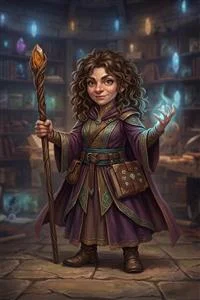
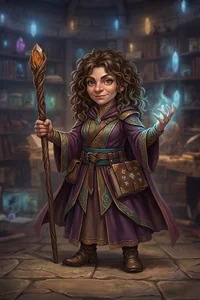
Nexus page: lore-accurate story, no hero count, new portrait row
- Drop 'painted', the ninety heroes and the class list everywhere (page, features, captions, press kit).
- The lieutenants are the lich's; the lieutenant caption names the Hollow Queen.
- Thandrys in the opening paragraph and the press description; 'the dragon that guards it' in the win caption and press text.
- Heroes: 'Dozens of heroes, each with a story', Seraphine's line in the lede.
- Story section follows the approved story: Vael Morrath, the flares, the ritual.
- Twelve new portraits, none of them shown in the screenshots.

Claude-Session: https://claude.ai/code/session_01TryM3vMNWA3NdZEFbYWbvc

diff --git a/games/nexus-of-dragons/index.html b/games/nexus-of-dragons/index.html
@@ -49,14 +49,14 @@
       <p class="eyebrow">The game</p>
       <h2>A board game you can lose yourself in</h2>
       <hr class="rule">
-      <p>Nexus of Dragons is played on a painted board of three rings. Each turn you roll, choose your road and face
-      what you find there: a monster to fight, a stranger with an offer, a town to rest in, a gate that will only open
-      for the strong.</p>
+      <p>Nexus of Dragons is played on a board of three rings, across the land of Thandrys. Each turn you roll, choose
+      your road and face what you find there: a monster to fight, a stranger with an offer, a town to rest in, a gate
+      that will only open for the strong.</p>
       <p>Your hero grows with every step – levels, spells, gear, a horse, a few loyal companions. The other heroes on the
       board are racing you to the same prize. Only one of you will take mastery of the Nexus Crystal.</p>
     </div>
     <div class="card"><img src="../../assets/img/nexus/shots/table-800.webp" alt="The board of Nexus of Dragons on the table, seen from above" width="800" height="450" loading="lazy">
-      <div class="body"><p class="mt0 muted" style="margin:0">To win, reach the Nexus Temple, defeat the Shadow Dragon and take mastery of the Crystal.</p></div></div>
+      <div class="body"><p class="mt0 muted" style="margin:0">To win, reach the Nexus Temple, defeat the dragon that guards it and take mastery of the Crystal.</p></div></div>
   </div>
 </section>
 <section class="band">
@@ -64,10 +64,10 @@
     <p class="eyebrow">Features</p>
     <h2>What waits on the road</h2>
     <ul class="features"><li><h3>Journey to the heart</h3><p>Three rings of land – the Outer, the Middle and the Inner – each harder than the last. Find the crossings, earn your way inward and reach the Nexus Temple.</p></li>
-<li><h3>Ninety heroes</h3><p>Nine peoples and five callings: warriors, mages, clerics, rogues and rangers, each hero with a story and a personal quest of their own. Or make your own hero.</p></li>
+<li><h3>Heroes to choose from</h3><p>Dozens of ready-made heroes from many races and callings, each with a story and a personal quest of their own. Or make your own hero.</p></li>
 <li><h3>Dice on the table</h3><p>Every blow, spell and saving throw is rolled out in front of you, from the d4 to the d20. Classic tabletop rules decide every fight.</p></li>
 <li><h3>Towns and the road</h3><p>Rest at inns, trade in markets, buy a mount at the stables, hire companions in taverns, take guild contracts – and perhaps raise a dragon of your own.</p></li>
-<li><h3>The Shadow Dragon's lieutenants</h3><p>Four of the dragon&#x27;s servants walk the land. Beat them for their treasures – or run when you must.</p></li>
+<li><h3>The lich's lieutenants</h3><p>As the heroes grow stronger, four of the lich&#x27;s servants rise and walk the land. Beat them for their treasures – or run when you must.</p></li>
 <li><h3>Your table, your length</h3><p>Up to six players in any mix of friends at one screen and computer heroes. Play a Classic match for the long road or a Quick one for an evening.</p></li></ul>
   </div>
 </section>
@@ -75,11 +75,11 @@
   <div class="wrap">
     <p class="eyebrow">Screenshots</p>
     <h2>From the table</h2>
-    <div class="gallery"><button type="button" data-full="../../assets/img/nexus/shots/table-1400.webp" data-caption="The table: a painted board of three rings, with the decks and the gold beside it."><img src="../../assets/img/nexus/shots/table-800.webp" alt="The table: a painted board of three rings, with the decks and the gold beside it." width="800" height="450" loading="lazy"></button>
-<button type="button" data-full="../../assets/img/nexus/shots/lieutenant-1400.webp" data-caption="One of the Shadow Dragon&#x27;s lieutenants stands in a hero&#x27;s way."><img src="../../assets/img/nexus/shots/lieutenant-800.webp" alt="One of the Shadow Dragon&#x27;s lieutenants stands in a hero&#x27;s way." width="800" height="450" loading="lazy"></button>
+    <div class="gallery"><button type="button" data-full="../../assets/img/nexus/shots/table-1400.webp" data-caption="The table: a board of three rings, with the decks beside it."><img src="../../assets/img/nexus/shots/table-800.webp" alt="The table: a board of three rings, with the decks beside it." width="800" height="450" loading="lazy"></button>
+<button type="button" data-full="../../assets/img/nexus/shots/lieutenant-1400.webp" data-caption="The Hollow Queen, one of the lich&#x27;s lieutenants, stands in a hero&#x27;s way."><img src="../../assets/img/nexus/shots/lieutenant-800.webp" alt="The Hollow Queen, one of the lich&#x27;s lieutenants, stands in a hero&#x27;s way." width="800" height="450" loading="lazy"></button>
 <button type="button" data-full="../../assets/img/nexus/shots/fight-1400.webp" data-caption="A fight with a manticore: keep the roll, or spend Luck on a second throw."><img src="../../assets/img/nexus/shots/fight-800.webp" alt="A fight with a manticore: keep the roll, or spend Luck on a second throw." width="800" height="450" loading="lazy"></button>
 <button type="button" data-full="../../assets/img/nexus/shots/town-1400.webp" data-caption="Highcrest, the fortress-city every road eventually leads back to."><img src="../../assets/img/nexus/shots/town-800.webp" alt="Highcrest, the fortress-city every road eventually leads back to." width="800" height="450" loading="lazy"></button>
-<button type="button" data-full="../../assets/img/nexus/shots/heroes-1400.webp" data-caption="Ninety heroes to choose from – or make your own."><img src="../../assets/img/nexus/shots/heroes-800.webp" alt="Ninety heroes to choose from – or make your own." width="800" height="450" loading="lazy"></button>
+<button type="button" data-full="../../assets/img/nexus/shots/heroes-1400.webp" data-caption="Choose a ready-made hero – or make your own."><img src="../../assets/img/nexus/shots/heroes-800.webp" alt="Choose a ready-made hero – or make your own." width="800" height="450" loading="lazy"></button>
 <button type="button" data-full="../../assets/img/nexus/shots/market-1400.webp" data-caption="Weapons, armour and potions in Highcrest&#x27;s marketplace."><img src="../../assets/img/nexus/shots/market-800.webp" alt="Weapons, armour and potions in Highcrest&#x27;s marketplace." width="800" height="450" loading="lazy"></button>
 <button type="button" data-full="../../assets/img/nexus/shots/hero-card-1400.webp" data-caption="Every hero comes with a story and a personal quest of their own."><img src="../../assets/img/nexus/shots/hero-card-800.webp" alt="Every hero comes with a story and a personal quest of their own." width="800" height="450" loading="lazy"></button>
 <button type="button" data-full="../../assets/img/nexus/shots/dice-move-1400.webp" data-caption="Roll the d6 and choose your road."><img src="../../assets/img/nexus/shots/dice-move-800.webp" alt="Roll the d6 and choose your road." width="800" height="450" loading="lazy"></button>
@@ -91,18 +91,20 @@
   <img class="bg" src="../../assets/img/nexus/keyart-960.webp" alt="" width="960" height="536" loading="lazy">
   <div class="wrap">
     <p class="eyebrow">The Waking of the Nexus</p>
-    <h2>This spring, the Crystal flared</h2>
-    <blockquote>Beasts no one had seen in a lifetime came down onto the roads. The dead began to march in step.
-    And at the heart of the Nexus, coiled around the Crystal, the Shadow Dragon woke.</blockquote>
+    <h2>Now the dead march again</h2>
+    <blockquote>For eight hundred years the Crystal has burned half-open, corrupted by the souls the lich Vael Morrath
+    poured into it. Every few decades it flares: the monsters come, the dead walk, and its guardian rises to burn the
+    land. Now the dead march again, and someone is leading them. Whoever finishes the ritual will hold the Nexus.</blockquote>
   </div>
 </section>
 <section>
   <div class="wrap">
     <p class="eyebrow">Heroes</p>
-    <h2>Ninety heroes, ninety stories</h2>
-    <p class="lede">A gate captain searching for the man who raised him. A glassblower's daughter who taught herself fire.
-    A hunter tracking a corrupted dragon through the marshes. Every hero comes with a story and a quest of their own.</p>
-    <div class="heroes"><img src="../../assets/img/nexus/heroes/warrior_gareth_m.webp" alt="" width="200" height="300" loading="lazy"><img src="../../assets/img/nexus/heroes/mage_eldrin_f.webp" alt="" width="200" height="300" loading="lazy"><img src="../../assets/img/nexus/heroes/priest_corvin_f.webp" alt="" width="200" height="300" loading="lazy"><img src="../../assets/img/nexus/heroes/rogue_varis_f.webp" alt="" width="200" height="300" loading="lazy"><img src="../../assets/img/nexus/heroes/ranger_fenn_m.webp" alt="" width="200" height="300" loading="lazy"><img src="../../assets/img/nexus/heroes/hilldwarf_warrior_f.webp" alt="" width="200" height="300" loading="lazy"><img src="../../assets/img/nexus/heroes/dragonborn_mage_m.webp" alt="" width="200" height="300" loading="lazy"><img src="../../assets/img/nexus/heroes/tiefling_ranger_f.webp" alt="" width="200" height="300" loading="lazy"><img src="../../assets/img/nexus/heroes/highelf_cleric_m.webp" alt="" width="200" height="300" loading="lazy"><img src="../../assets/img/nexus/heroes/halforc_rogue_f.webp" alt="" width="200" height="300" loading="lazy"><img src="../../assets/img/nexus/heroes/lightfoothalfling_ranger_m.webp" alt="" width="200" height="300" loading="lazy"><img src="../../assets/img/nexus/heroes/rockgnome_mage_f.webp" alt="" width="200" height="300" loading="lazy"></div>
+    <h2>Dozens of heroes, each with a story</h2>
+    <p class="lede">A gate captain searching for the man who raised him. A library guard who has kept her lady's last
+    order for eight hundred years. A hunter tracking a corrupted dragon through the marshes. Choose one of them – or
+    make your own.</p>
+    <div class="heroes"><img src="../../assets/img/nexus/heroes/priest_corvin_m.webp" alt="" width="200" height="300" loading="lazy"><img src="../../assets/img/nexus/heroes/dragonborn_warrior_f.webp" alt="" width="200" height="300" loading="lazy"><img src="../../assets/img/nexus/heroes/lightfoothalfling_rogue_m.webp" alt="" width="200" height="300" loading="lazy"><img src="../../assets/img/nexus/heroes/hilldwarf_mage_f.webp" alt="" width="200" height="300" loading="lazy"><img src="../../assets/img/nexus/heroes/tiefling_rogue_m.webp" alt="" width="200" height="300" loading="lazy"><img src="../../assets/img/nexus/heroes/highelf_warrior_f.webp" alt="" width="200" height="300" loading="lazy"><img src="../../assets/img/nexus/heroes/hilldwarf_ranger_m.webp" alt="" width="200" height="300" loading="lazy"><img src="../../assets/img/nexus/heroes/rockgnome_mage_f.webp" alt="" width="200" height="300" loading="lazy"><img src="../../assets/img/nexus/heroes/halfelf_cleric_m.webp" alt="" width="200" height="300" loading="lazy"><img src="../../assets/img/nexus/heroes/halforc_warrior_f.webp" alt="" width="200" height="300" loading="lazy"><img src="../../assets/img/nexus/heroes/highelf_mage_m.webp" alt="" width="200" height="300" loading="lazy"><img src="../../assets/img/nexus/heroes/ranger_fenn_f.webp" alt="" width="200" height="300" loading="lazy"></div>
   </div>
 </section>
 <dialog class="lightbox" id="lightbox" aria-label="Screenshot">

diff --git a/press/index.html b/press/index.html
@@ -60,11 +60,11 @@
       <h2>Description</h2>
       <p><b>Short:</b> A fantasy adventure board game for one to six players. Cross Thandrys, fight and grow stronger on every road, and be the one who defeats the dragon and claims the Crystal.</p>
       <p><b>Long:</b> Nexus of Dragons is a fantasy adventure board game for one to six players, in development for PC.
-      Players choose from ninety heroes – nine peoples, five classes, each with a story and a personal quest – and journey
-      inward across three rings of a painted land. Along the way they fight monsters with dice on the table, rest and
-      trade in towns, buy mounts, hire companions and take on contracts, while four lieutenants of the Shadow Dragon roam
-      the board. The first hero to reach the Nexus Temple, defeat the Shadow Dragon and take mastery of the Nexus Crystal
-      wins. Matches come in two lengths: Classic and Quick.</p>
+      Players choose from a wide cast of heroes, each with a story and a personal quest, and journey inward across the
+      three rings of Thandrys. Along the way they fight monsters with dice on the table, rest and trade in towns, buy
+      mounts, hire companions and take on contracts, while the lich's four lieutenants roam the board. The first hero to
+      reach the Nexus Temple, defeat the dragon that guards it and take mastery of the Nexus Crystal wins. Matches come
+      in two lengths: Classic and Quick.</p>
     </div>
   </div>
 </section>
@@ -72,10 +72,10 @@
   <div class="wrap">
     <h2>Features</h2>
     <ul class="features"><li><h3>Journey to the heart</h3><p>Three rings of land – the Outer, the Middle and the Inner – each harder than the last. Find the crossings, earn your way inward and reach the Nexus Temple.</p></li>
-<li><h3>Ninety heroes</h3><p>Nine peoples and five callings: warriors, mages, clerics, rogues and rangers, each hero with a story and a personal quest of their own. Or make your own hero.</p></li>
+<li><h3>Heroes to choose from</h3><p>Dozens of ready-made heroes from many races and callings, each with a story and a personal quest of their own. Or make your own hero.</p></li>
 <li><h3>Dice on the table</h3><p>Every blow, spell and saving throw is rolled out in front of you, from the d4 to the d20. Classic tabletop rules decide every fight.</p></li>
 <li><h3>Towns and the road</h3><p>Rest at inns, trade in markets, buy a mount at the stables, hire companions in taverns, take guild contracts – and perhaps raise a dragon of your own.</p></li>
-<li><h3>The Shadow Dragon's lieutenants</h3><p>Four of the dragon&#x27;s servants walk the land. Beat them for their treasures – or run when you must.</p></li>
+<li><h3>The lich's lieutenants</h3><p>As the heroes grow stronger, four of the lich&#x27;s servants rise and walk the land. Beat them for their treasures – or run when you must.</p></li>
 <li><h3>Your table, your length</h3><p>Up to six players in any mix of friends at one screen and computer heroes. Play a Classic match for the long road or a Quick one for an evening.</p></li></ul>
   </div>
 </section>
@@ -83,11 +83,11 @@
   <div class="wrap">
     <h2>Screenshots</h2>
     <p class="muted">Click an image for the full-size file. Work in progress – everything shown may change before release.</p>
-    <div class="downloads"><a href="screens/table.jpg" download><div class="thumb"><img class="cover" src="../assets/img/nexus/shots/table-800.webp" alt="The table: a painted board of three rings, with the decks and the gold beside it." loading="lazy"></div><div class="meta"><b>The table: a painted board of three rings, with the decks and the gold beside it.</b><span>JPG</span></div></a>
-<a href="screens/lieutenant.jpg" download><div class="thumb"><img class="cover" src="../assets/img/nexus/shots/lieutenant-800.webp" alt="One of the Shadow Dragon&#x27;s lieutenants stands in a hero&#x27;s way." loading="lazy"></div><div class="meta"><b>One of the Shadow Dragon&#x27;s lieutenants stands in a hero&#x27;s way.</b><span>JPG</span></div></a>
+    <div class="downloads"><a href="screens/table.jpg" download><div class="thumb"><img class="cover" src="../assets/img/nexus/shots/table-800.webp" alt="The table: a board of three rings, with the decks beside it." loading="lazy"></div><div class="meta"><b>The table: a board of three rings, with the decks beside it.</b><span>JPG</span></div></a>
+<a href="screens/lieutenant.jpg" download><div class="thumb"><img class="cover" src="../assets/img/nexus/shots/lieutenant-800.webp" alt="The Hollow Queen, one of the lich&#x27;s lieutenants, stands in a hero&#x27;s way." loading="lazy"></div><div class="meta"><b>The Hollow Queen, one of the lich&#x27;s lieutenants, stands in a hero&#x27;s way.</b><span>JPG</span></div></a>
 <a href="screens/fight.jpg" download><div class="thumb"><img class="cover" src="../assets/img/nexus/shots/fight-800.webp" alt="A fight with a manticore: keep the roll, or spend Luck on a second throw." loading="lazy"></div><div class="meta"><b>A fight with a manticore: keep the roll, or spend Luck on a second throw.</b><span>JPG</span></div></a>
 <a href="screens/town.jpg" download><div class="thumb"><img class="cover" src="../assets/img/nexus/shots/town-800.webp" alt="Highcrest, the fortress-city every road eventually leads back to." loading="lazy"></div><div class="meta"><b>Highcrest, the fortress-city every road eventually leads back to.</b><span>JPG</span></div></a>
-<a href="screens/heroes.jpg" download><div class="thumb"><img class="cover" src="../assets/img/nexus/shots/heroes-800.webp" alt="Ninety heroes to choose from – or make your own." loading="lazy"></div><div class="meta"><b>Ninety heroes to choose from – or make your own.</b><span>JPG</span></div></a>
+<a href="screens/heroes.jpg" download><div class="thumb"><img class="cover" src="../assets/img/nexus/shots/heroes-800.webp" alt="Choose a ready-made hero – or make your own." loading="lazy"></div><div class="meta"><b>Choose a ready-made hero – or make your own.</b><span>JPG</span></div></a>
 <a href="screens/market.jpg" download><div class="thumb"><img class="cover" src="../assets/img/nexus/shots/market-800.webp" alt="Weapons, armour and potions in Highcrest&#x27;s marketplace." loading="lazy"></div><div class="meta"><b>Weapons, armour and potions in Highcrest&#x27;s marketplace.</b><span>JPG</span></div></a>
 <a href="screens/hero-card.jpg" download><div class="thumb"><img class="cover" src="../assets/img/nexus/shots/hero-card-800.webp" alt="Every hero comes with a story and a personal quest of their own." loading="lazy"></div><div class="meta"><b>Every hero comes with a story and a personal quest of their own.</b><span>JPG</span></div></a>
 <a href="screens/dice-move.jpg" download><div class="thumb"><img class="cover" src="../assets/img/nexus/shots/dice-move-800.webp" alt="Roll the d6 and choose your road." loading="lazy"></div><div class="meta"><b>Roll the d6 and choose your road.</b><span>JPG</span></div></a>

diff --git a/tools/sitegen/content/nexus.py b/tools/sitegen/content/nexus.py
@@ -15,11 +15,11 @@ GAME_CARD = """<a class="feature-game" href="{r}games/nexus-of-dragons/">
 </a>"""
 
 SHOTS = [
-    ("table", "The table: a painted board of three rings, with the decks and the gold beside it."),
-    ("lieutenant", "One of the Shadow Dragon's lieutenants stands in a hero's way."),
+    ("table", "The table: a board of three rings, with the decks beside it."),
+    ("lieutenant", "The Hollow Queen, one of the lich's lieutenants, stands in a hero's way."),
     ("fight", "A fight with a manticore: keep the roll, or spend Luck on a second throw."),
     ("town", "Highcrest, the fortress-city every road eventually leads back to."),
-    ("heroes", "Ninety heroes to choose from – or make your own."),
+    ("heroes", "Choose a ready-made hero – or make your own."),
     ("market", "Weapons, armour and potions in Highcrest's marketplace."),
     ("hero-card", "Every hero comes with a story and a personal quest of their own."),
     ("dice-move", "Roll the d6 and choose your road."),
@@ -29,21 +29,23 @@ GALLERY_HTML = "\n".join(
     f'<button type="button" data-full="{{r}}assets/img/nexus/shots/{k}-1400.webp" data-caption="{html.escape(c)}">'
     f'<img src="{{r}}assets/img/nexus/shots/{k}-800.webp" alt="{html.escape(c)}" width="800" height="450" loading="lazy"></button>'
     for k, c in SHOTS)
-HEROES = ["warrior_gareth_m", "mage_eldrin_f", "priest_corvin_f", "rogue_varis_f", "ranger_fenn_m", "hilldwarf_warrior_f",
-          "dragonborn_mage_m", "tiefling_ranger_f", "highelf_cleric_m", "halforc_rogue_f", "lightfoothalfling_ranger_m", "rockgnome_mage_f"]
+# Heroes not shown in the screenshots; the webps come from StudioHQ/Screenshots/Nexus/make_hero_portraits.py.
+HEROES = ["priest_corvin_m", "dragonborn_warrior_f", "lightfoothalfling_rogue_m", "hilldwarf_mage_f",
+          "tiefling_rogue_m", "highelf_warrior_f", "hilldwarf_ranger_m", "rockgnome_mage_f",
+          "halfelf_cleric_m", "halforc_warrior_f", "highelf_mage_m", "ranger_fenn_f"]
 HEROES_HTML = "".join(f'<img src="{{r}}assets/img/nexus/heroes/{h}.webp" alt="" width="200" height="300" loading="lazy">' for h in HEROES)
 
 FEATURES = [
     ("Journey to the heart", "Three rings of land – the Outer, the Middle and the Inner – each harder than the last. "
      "Find the crossings, earn your way inward and reach the Nexus Temple."),
-    ("Ninety heroes", "Nine peoples and five callings: warriors, mages, clerics, rogues and rangers, each hero with a story "
+    ("Heroes to choose from", "Dozens of ready-made heroes from many races and callings, each with a story "
      "and a personal quest of their own. Or make your own hero."),
     ("Dice on the table", "Every blow, spell and saving throw is rolled out in front of you, from the d4 to the d20. "
      "Classic tabletop rules decide every fight."),
     ("Towns and the road", "Rest at inns, trade in markets, buy a mount at the stables, hire companions in taverns, "
      "take guild contracts – and perhaps raise a dragon of your own."),
-    ("The Shadow Dragon's lieutenants", "Four of the dragon's servants walk the land. Beat them for their treasures – "
-     "or run when you must."),
+    ("The lich's lieutenants", "As the heroes grow stronger, four of the lich's servants rise and walk the land. "
+     "Beat them for their treasures – or run when you must."),
     ("Your table, your length", "Up to six players in any mix of friends at one screen and computer heroes. "
      "Play a Classic match for the long road or a Quick one for an evening."),
 ]

diff --git a/tools/sitegen/pages/nexus_of_dragons.py b/tools/sitegen/pages/nexus_of_dragons.py
@@ -24,14 +24,14 @@ PAGE = Page("games/nexus-of-dragons/index.html", "Nexus of Dragons",
       <p class="eyebrow">The game</p>
       <h2>A board game you can lose yourself in</h2>
       <hr class="rule">
-      <p>Nexus of Dragons is played on a painted board of three rings. Each turn you roll, choose your road and face
-      what you find there: a monster to fight, a stranger with an offer, a town to rest in, a gate that will only open
-      for the strong.</p>
+      <p>Nexus of Dragons is played on a board of three rings, across the land of Thandrys. Each turn you roll, choose
+      your road and face what you find there: a monster to fight, a stranger with an offer, a town to rest in, a gate
+      that will only open for the strong.</p>
       <p>Your hero grows with every step – levels, spells, gear, a horse, a few loyal companions. The other heroes on the
       board are racing you to the same prize. Only one of you will take mastery of the Nexus Crystal.</p>
     </div>
     <div class="card"><img src="{r}assets/img/nexus/shots/table-800.webp" alt="The board of Nexus of Dragons on the table, seen from above" width="800" height="450" loading="lazy">
-      <div class="body"><p class="mt0 muted" style="margin:0">To win, reach the Nexus Temple, defeat the Shadow Dragon and take mastery of the Crystal.</p></div></div>
+      <div class="body"><p class="mt0 muted" style="margin:0">To win, reach the Nexus Temple, defeat the dragon that guards it and take mastery of the Crystal.</p></div></div>
   </div>
 </section>
 <section class="band">
@@ -53,17 +53,19 @@ PAGE = Page("games/nexus-of-dragons/index.html", "Nexus of Dragons",
   <img class="bg" src="{r}assets/img/nexus/keyart-960.webp" alt="" width="960" height="536" loading="lazy">
   <div class="wrap">
     <p class="eyebrow">The Waking of the Nexus</p>
-    <h2>This spring, the Crystal flared</h2>
-    <blockquote>Beasts no one had seen in a lifetime came down onto the roads. The dead began to march in step.
-    And at the heart of the Nexus, coiled around the Crystal, the Shadow Dragon woke.</blockquote>
+    <h2>Now the dead march again</h2>
+    <blockquote>For eight hundred years the Crystal has burned half-open, corrupted by the souls the lich Vael Morrath
+    poured into it. Every few decades it flares: the monsters come, the dead walk, and its guardian rises to burn the
+    land. Now the dead march again, and someone is leading them. Whoever finishes the ritual will hold the Nexus.</blockquote>
   </div>
 </section>
 <section>
   <div class="wrap">
     <p class="eyebrow">Heroes</p>
-    <h2>Ninety heroes, ninety stories</h2>
-    <p class="lede">A gate captain searching for the man who raised him. A glassblower's daughter who taught herself fire.
-    A hunter tracking a corrupted dragon through the marshes. Every hero comes with a story and a quest of their own.</p>
+    <h2>Dozens of heroes, each with a story</h2>
+    <p class="lede">A gate captain searching for the man who raised him. A library guard who has kept her lady's last
+    order for eight hundred years. A hunter tracking a corrupted dragon through the marshes. Choose one of them – or
+    make your own.</p>
     <div class="heroes">""" + HEROES_HTML + """</div>
   </div>
 </section>

diff --git a/tools/sitegen/pages/press.py b/tools/sitegen/pages/press.py
@@ -37,11 +37,11 @@ PAGE = Page("press/index.html", "Press kit",
       <h2>Description</h2>
       <p><b>Short:</b> """ + GAME_SHORT + """</p>
       <p><b>Long:</b> Nexus of Dragons is a fantasy adventure board game for one to six players, in development for PC.
-      Players choose from ninety heroes – nine peoples, five classes, each with a story and a personal quest – and journey
-      inward across three rings of a painted land. Along the way they fight monsters with dice on the table, rest and
-      trade in towns, buy mounts, hire companions and take on contracts, while four lieutenants of the Shadow Dragon roam
-      the board. The first hero to reach the Nexus Temple, defeat the Shadow Dragon and take mastery of the Nexus Crystal
-      wins. Matches come in two lengths: Classic and Quick.</p>
+      Players choose from a wide cast of heroes, each with a story and a personal quest, and journey inward across the
+      three rings of Thandrys. Along the way they fight monsters with dice on the table, rest and trade in towns, buy
+      mounts, hire companions and take on contracts, while the lich's four lieutenants roam the board. The first hero to
+      reach the Nexus Temple, defeat the dragon that guards it and take mastery of the Nexus Crystal wins. Matches come
+      in two lengths: Classic and Quick.</p>
     </div>
   </div>
 </section>
